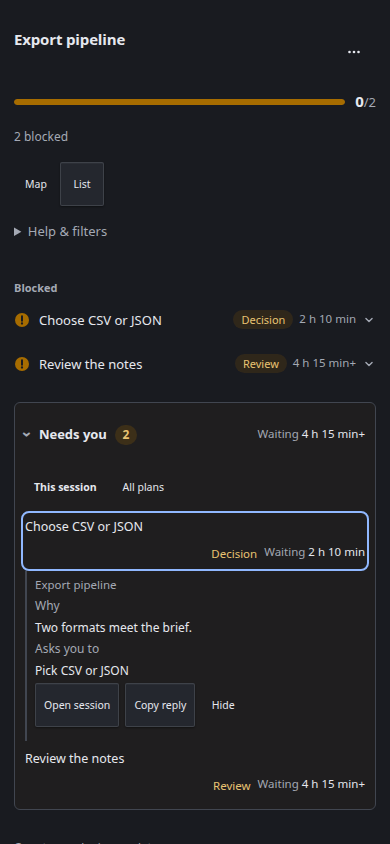
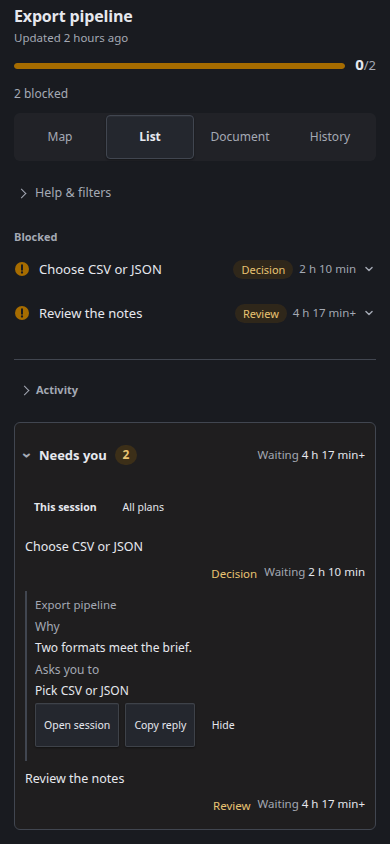
docs: refresh UI illustrations for the 1.7 layout

diff --git a/docs/ui.md b/docs/ui.md
@@ -165,7 +165,7 @@ announce again; a delayed callback cannot restore the earlier language.
 
 ## Reporting health
 
-Reporting health lives in **More → Troubleshooting**, including when the normal read fails or Setup is incomplete. The panel shows one introductory sentence, **Copy support summary**, **Check again**, and collapsed **Advanced details**. The seven labelled observation rows, their explanations and the previous Details facts are inside Advanced details; meaning never relies on color alone. Opening Troubleshooting or selecting Check again performs the same bounded read-only check. Configured delivery, matching loaded-companion observation, capture, selected recorded revision and viewer freshness remain separate. Unknown/not observed and differing loaded bytes are distinct; differences warn, not block otherwise authorized reporting. A matching load is not a heartbeat or proof that every running instance or restricted child session has the tool.
+Reporting health lives in **Settings → Troubleshooting**, including when the normal read fails or Setup is incomplete. The panel shows one introductory sentence, **Copy support summary**, **Check again**, and collapsed **Advanced details**. The seven labelled observation rows, their explanations and the previous Details facts are inside Advanced details; meaning never relies on color alone. Opening Troubleshooting or selecting Check again performs the same bounded read-only check. Configured delivery, matching loaded-companion observation, capture, selected recorded revision and viewer freshness remain separate. Unknown/not observed and differing loaded bytes are distinct; differences warn, not block otherwise authorized reporting. A matching load is not a heartbeat or proof that every running instance or restricted child session has the tool.
 
 The support summary's existing lines, order and values are unchanged. Its labelled selectable preview is inside Advanced details; a failed clipboard write also exposes a selectable fallback outside the fold. Copy is explicit and reports success only after clipboard acceptance. The summary contains fixed observation enums and a numeric version, with private context excluded. No upload, persistent cache, synthetic plan, repair or automatic restart occurs. Account/store/source, selection/filter/archive/search, capture and failed-viewer changes retire the observation; otherwise it remains labelled as the last explicit check. Incomplete-count reasons and build limits have an additive summary slot; they do not replace any existing line.
 
@@ -319,7 +319,7 @@ Entries `ui/{panel,status,page}/index.html` load `main.js`, the generated instal
 - **History** (`/v1/history`, More panel): the newest 250 updates through the listed plan revision, displayed newest-first within the existing five-page budget; shorter histories show every update. The unchanged oldest-first row-offset route is read from `max(0, revision - 250)`. The reader validates a contiguous suffix ending at the listed revision; missing rows or inconsistent cursors show a read failure, not a falsely complete older prefix. Later reports wait for the normal list refresh; there is no new polling. **Older updates are not shown** qualifies omitted older rows in English, Russian and Simplified Chinese. Rows are labelled plan reported / tasks revised / outcome reported / progress update; the first loaded row of a truncated suffix has no earlier comparison and uses progress update, never plan reported. The History panel adds one pinned `/v1/change-digest` read above it (Change digests); legacy history pages are never fed into it.
 - **Health.**
   - `ready:false` never means an empty board. A genuinely unconfigured service shows Setup; on `starting` or `refused` the view uses the existing Setup admission read before reading any data.
-  - A fixed `managed-migration-conflict` in the Setup admission reply or remaining refused health is a Setup refusal, not an outage. Keep the diagnostic, do not request plans, and direct the reader to **More → Setup** (English, Russian and Simplified Chinese). Opening Setup reads status only.
+  - A fixed `managed-migration-conflict` in the Setup admission reply or remaining refused health is a Setup refusal, not an outage. Keep the diagnostic, do not request plans, and direct the reader to **Settings → Setup** (English, Russian and Simplified Chinese). Opening Setup reads status only.
   - Other HTTP failures retain their usual classifications: `corrupt` → damaged, `schema` → incompatible, `busy` → busy; an unclassified HTTP failure is not evidence of a Setup problem.
 - **Navigation.** "Open session" appears only when the plan's `sourceId` equals the verified `sourceBinding.sourceId` **and** the session is in this host's current SDK snapshot. Other plans stay readable with "From another OpenCode setup" and no target.
 - **Source identity.** A plan whose recorded source has `verified:false` shows "Unverified OpenCode setup" in its header and an "Unverified setup" (warning) badge in the page list. Details lists every recorded source with its verified flag.
@@ -651,7 +651,7 @@ Find reported plans and tasks by title or stable ID across the whole recorded st
 
 ![Board search for "pages" with a matching task opened beside the results (synthetic example)](images/board-search-results.png)
 
-- **Bar and Filters.** One bar: Current plans / Archived plans, the kit search field (named "Search titles and IDs", with the help as its description) and **Filters** (named "Filters, N active" while N constraints are set). Filters is a nonmodal dialog right after its trigger in Tab order, with no focus trap: Plan status, Task status and (with several recorded sources) Recorded source, which stay drafts until Search; Project, Worktree and Session, applied on choice while browsing and rerunning the submitted search while searching; the help; the explicit scope; and **Search**. Opening it moves focus to its heading. Close or Escape returns focus to the trigger; an outside press or focus moving to a control outside closes it without moving focus; choosing a location keeps it open; Search inside it closes it and returns focus to the trigger. It stays open across same-scope repaints and location choices and closes when the integration account, store/binding or Current/Archived mode changes. The query problem, the "Not searched yet" notice, chips, Clear search and filters, the outcome line and every warning stay outside Filters. A service without search keeps the bar with Current/Archived and Filters holding the location selects only, plus its unavailable note. Typing only changes a frame-local draft: no request, no repaint. The field's clear button shows while it has text; it and Escape in the field empty the text and the draft, with focus kept in the field, and do not search. Search or Enter in the field submits; Enter during IME composition only commits text. No keyboard shortcut is added and no document-level key is handled, so Ctrl/Cmd+F, Ctrl/Cmd+K and host shortcuts stay with the host. Texts over 256 characters or 16 words are refused with a plain message, never truncated. Without words, a plan status, a task status or a source, Search does not run: board filters alone are ordinary browsing ("Enter words to search, or choose a plan or task status."). Empty words plus a task status finds every task with that status. Help text: every word must appear in the same plan's or task's own title or ID, in any order; capitalization is ignored; accents are not. While the form differs from the shown results, "Not searched yet: these results are for the previous search" stays visible until the next Search.
+- **Bar and Filters.** One bar: the kit search field (named "Search titles and IDs", with the help as its description), Hide quiet and **Filters** (named "Filters, N active" while N constraints are set); Current plans / Archived plans is inside Filters. Filters is a nonmodal dialog right after its trigger in Tab order, with no focus trap: Plan status, Task status and (with several recorded sources) Recorded source, which stay drafts until Search; Project, Worktree and Session, applied on choice while browsing and rerunning the submitted search while searching; the help; the explicit scope; and **Search**. Opening it moves focus to its heading. Close or Escape returns focus to the trigger; an outside press or focus moving to a control outside closes it without moving focus; choosing a location keeps it open; Search inside it closes it and returns focus to the trigger. It stays open across same-scope repaints and location choices and closes when the integration account, store/binding or Current/Archived mode changes. The query problem, the "Not searched yet" notice, chips, Clear search and filters, the outcome line and every warning stay outside Filters. A service without search keeps the bar with Filters holding Current/Archived and the location selects only, plus its unavailable note. Typing only changes a frame-local draft: no request, no repaint. The field's clear button shows while it has text; it and Escape in the field empty the text and the draft, with focus kept in the field, and do not search. Search or Enter in the field submits; Enter during IME composition only commits text. No keyboard shortcut is added and no document-level key is handled, so Ctrl/Cmd+F, Ctrl/Cmd+K and host shortcuts stay with the host. Texts over 256 characters or 16 words are refused with a plain message, never truncated. Without words, a plan status, a task status or a source, Search does not run: board filters alone are ordinary browsing ("Enter words to search, or choose a plan or task status."). Empty words plus a task status finds every task with that status. Help text: every word must appear in the same plan's or task's own title or ID, in any order; capitalization is ignored; accents are not. While the form differs from the shown results, "Not searched yet: these results are for the previous search" stays visible until the next Search.
 - **Explicit scope.** A scope line inside Filters names what is searched: all recorded plans in this store or one recorded source; current plans (archived excluded) or archived plans only; the chosen project/worktree; the chosen session (owner, linked or recorded contributor). It is reachable with zero, failed or unavailable results. The host-selected session never narrows search; host A/B/null keeps it. Archived plans are searched only in the existing Archived plans mode; switching Current/Archived ends the search and resets filters as before.
 - **Filters lifetime and input.** The panel remains open across project/worktree choices and new search runs; its lifetime is account + store/binding + Current/Archived, separate from the full board scope used by Finished folds. Explicit Search inside Filters closes it and returns focus to its trigger. Outside pointer dismissal waits through native click delivery so the intended plan/action still activates; keyboard focus departure closes without taking focus back. A replaced or synchronously retired control cannot submit, change a filter/draft or reopen the panel. Ordinary polls preserve an open dropdown's native focus while applying current warnings and options; they do not defer the whole board.
 - **Outside popup continuity.** After an outside pointer activation, Filters closes in its own owner rather than repainting the whole board. A Plan actions menu just opened by that activation stays open and usable; its native focus/control is not replaced. The Filters trigger reads its current expanded state so it can reopen after this local dismissal.
@@ -899,7 +899,7 @@ message box, edit and send. Hide confirms its device-only scope until the task
 changes and offers Undo. Recording off appears once at surface level, not again
 inside the inbox or sub-agent roster.
 
-![Needs you with Why, Asks you to and trailing-plus waiting time in dark theme (synthetic example)](images/needs-you-dark.png)
+![Needs you below the plan’s List view, with Why, Asks you to and trailing-plus waiting time in dark theme (synthetic example)](images/needs-you-dark.png)
 
 Positive counts show N only after a complete ungapped traversal (and complete session
 plan list); otherwise N+. Zero has no number or badge, complete or incomplete.
@@ -1148,7 +1148,7 @@ The shipped reading control is **Help & filters → Show all / Unfinished**, on 
 - **Invalidation.** On success or ambiguous failure, retire list and part-read generations, clear list/detail/document/history memories and the affected selections, then refetch. Late replies cannot refill retired caches. Cleanup generation changes invalidate content even if the agent revision is unchanged. Every other mounted surface converges on its existing successful poll; a complete refreshed scope that loses a key evicts remembered scopes/parts and that key's recent choices too. No new bus or polling cadence. Known persisted rail choices are cleared when their removed keys are observed. A bulk run that ends after an account, store or binding change the frame observed since it started, also one that changed back, drops its own state and does none of this on the board shown then: no cache is reset, the selection and the opened plan stay, and no result is shown. A validated Delete receipt still removes the review marker stored for its plan under the account and store the run started in, also when it arrives later. A change of board scope alone (filters or search) ends the run as before: it stops, shows no result line and sends its one reconciliation read.
 - Setup's capture removal still retains history; only this separately confirmed plan deletion removes stored plan content. SQLite recovery files/backups are not erased or automatically restored.
 
-![Archived synthetic plan with preserved history, Restore and separate Delete permanently action](images/archived-plan-actions.png)
+![Archived synthetic plan with Restore, a separate Delete permanently action and a note that restoring preserves its status and history](images/archived-plan-actions.png)
 
 ### Diagnostics placement
 
